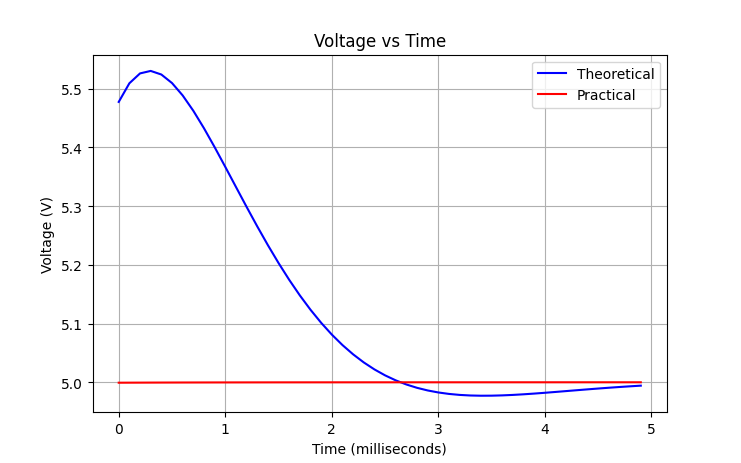
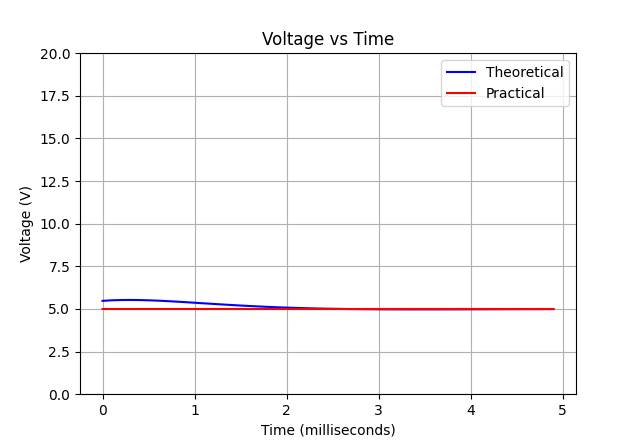
19th iteration

diff --git a/codes/simulation.py b/codes/simulation.py
@@ -23,21 +23,22 @@ time_practical = np.arange(0, total_time, delta_t)
 
 # Calculate corresponding theoretical and practical voltage values
 voltage_theoretical = theoretical_voltage_function(time_theoretical)
-voltage_practical = np.zeros_like(time_practical)
+voltage_practical = np.zeros_like(time_theoretical)
 voltage_practical[0] = initial_voltage  # Set initial condition for practical simulation
 
 # Euler method to solve the practical differential equation
-for i in range(1, len(time_practical)):
-    voltage_derivative = derivative(voltage_practical[i-1], time_practical[i-1])
-    voltage_practical[i] = voltage_practical[i-1] + voltage_derivative * delta_t
+for i in range(1, len(time_theoretical)):
+    voltage_derivative = derivative(voltage_practical[i-1], time_theoretical[i-1])
+    voltage_practical[i] = voltage_practical[i-1] + voltage_derivative * 0.0001
 
 # Plot both theoretical and practical results on the same graph
 plt.plot(time_theoretical * 1000, voltage_theoretical, label='Theoretical', color='blue')
-plt.plot(time_practical * 1000, voltage_practical, label='Practical', color='red')
+plt.plot(time_theoretical * 1000, voltage_practical, label='Practical', color='red')
 plt.xlabel('Time (milliseconds)')
 plt.ylabel('Voltage (V)')
 plt.title('Voltage vs Time')
 plt.legend()
+plt.ylim(0, 20)  # Set the y-axis range from 0 to 25V
 plt.grid(True)
 plt.show()
 
